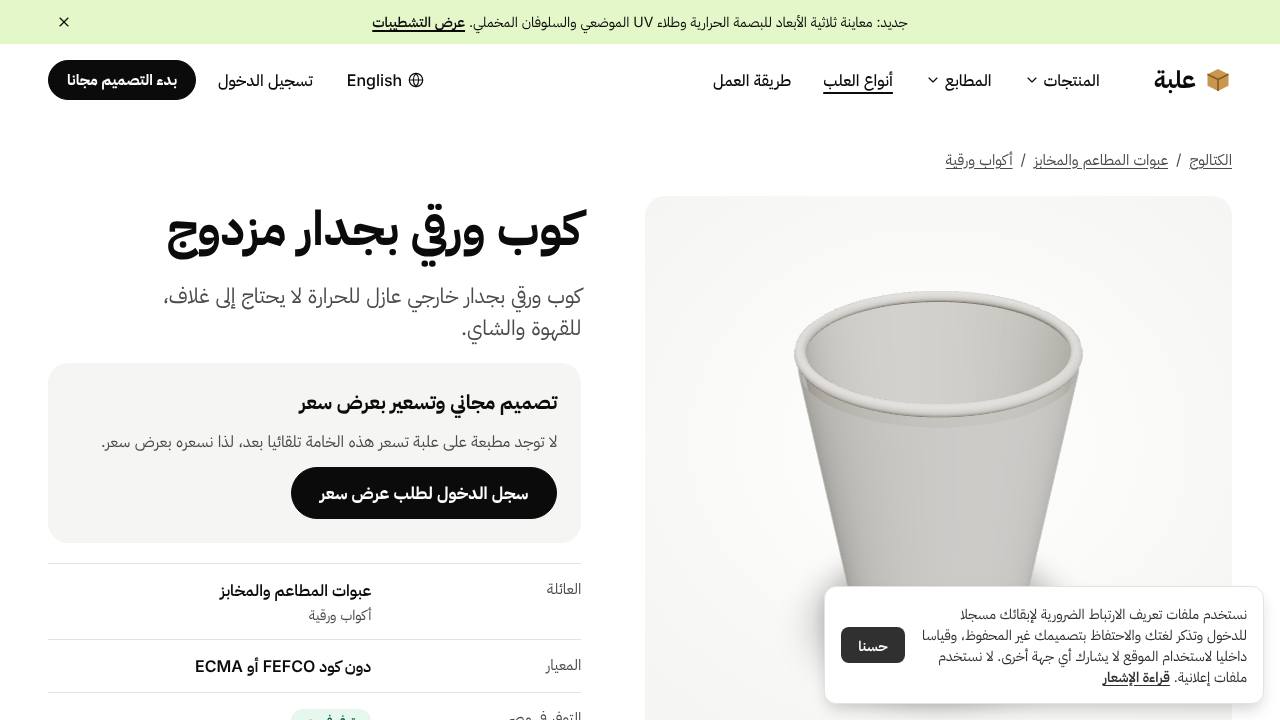
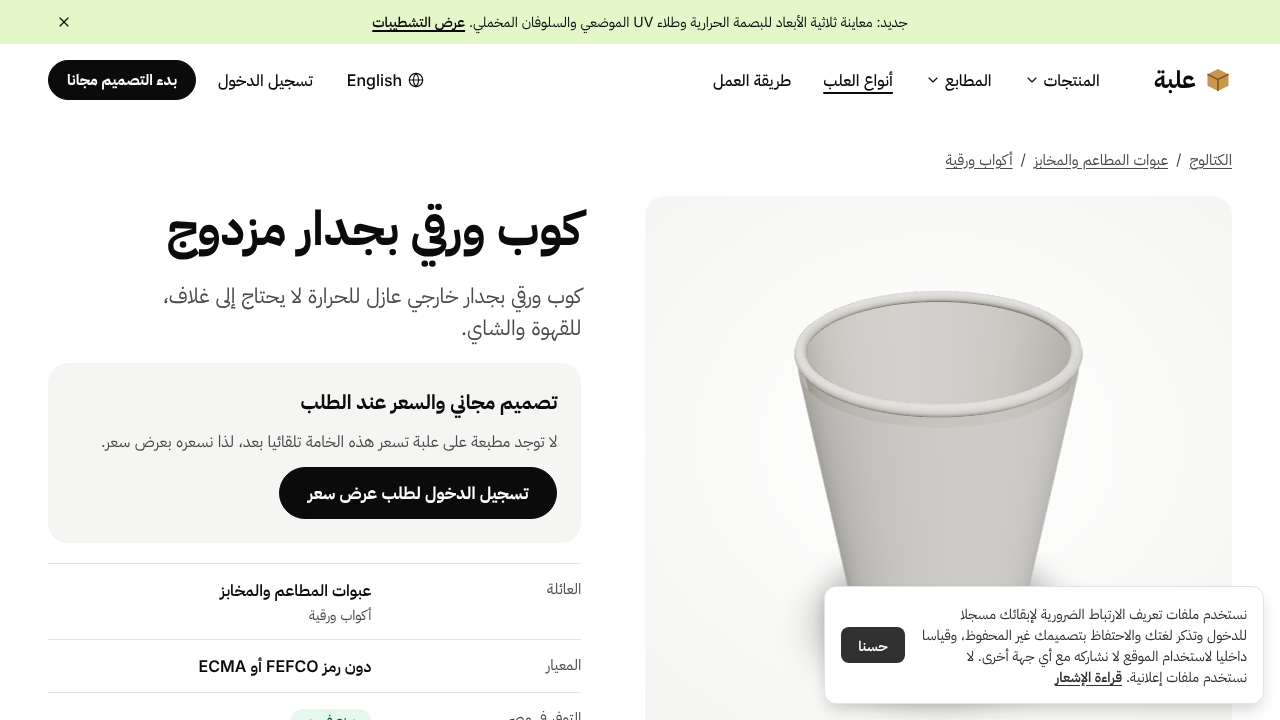
e2e: match the copy pass's terms (Request a price, Price on request, lowercase terms label)
The r5-copy merge renamed the quote labels and the sign-up consent label; the specs still looked
for the old strings. Locators now use the shipped copy (terms label matched case-insensitively).

Claude-Session: https://claude.ai/code/session_01ErLBsbrJGKcLzRPdTmLyhq

diff --git a/e2e/catalogue-order-modes.spec.ts b/e2e/catalogue-order-modes.spec.ts
@@ -41,11 +41,11 @@ test("quote-only model: no 'Order this box' in designer, export, share, checkout
   await page.goto("/en/design/aseptic-brick-carton");
   await dismissCookies(page);
   const toolbar = page.getByRole("toolbar");
-  await expect(toolbar.getByRole("button", { name: "Request a quote" })).toBeVisible({ timeout: 30_000 });
+  await expect(toolbar.getByRole("button", { name: "Request a price" })).toBeVisible({ timeout: 30_000 });
   await expect(page.getByRole("button", { name: "Order this box" })).toHaveCount(0);
   await toolbarAction(page, "Export");
   const exp = page.getByRole("dialog", { name: "Download a mockup" });
-  await expect(exp.getByRole("button", { name: "Request a quote" })).toBeVisible();
+  await expect(exp.getByRole("button", { name: "Request a price" })).toBeVisible();
   await expect(exp.getByRole("button", { name: "Order this box" })).toHaveCount(0);
   await exp.getByRole("button", { name: "Cancel" }).click();
 
@@ -56,7 +56,7 @@ test("quote-only model: no 'Order this box' in designer, export, share, checkout
   await expect(link).toHaveValue(/\/en\/s\/[\w-]+$/, { timeout: 20_000 });
   const sharePath = new URL(await link.inputValue()).pathname;
 
-  // Another buyer opens the share page: model name, "Request a quote", "Design your own" opens the same model.
+  // Another buyer opens the share page: model name, "Request a price", "Design your own" opens the same model.
   const ctx = await browser.newContext({ baseURL });
   await signInAs(ctx, baseURL!, visitor.id);
   const v = await ctx.newPage();
@@ -65,7 +65,7 @@ test("quote-only model: no 'Order this box' in designer, export, share, checkout
   await expect(v.getByText("Aseptic brick carton").first()).toBeVisible();
   await expect(v.getByRole("link", { name: "Order this box" })).toHaveCount(0);
   await expect(v.getByRole("link", { name: "Design your own" })).toHaveAttribute("href", /\/en\/design\/aseptic-brick-carton/);
-  await v.getByRole("link", { name: "Request a quote" }).click();
+  await v.getByRole("link", { name: "Request a price" }).click();
 
   // Deep link: the visitor's copy keeps the model, so checkout is a quote request, not an order.
   await expect(v).toHaveURL(/\/en\/checkout\/[\w-]+$/, { timeout: 20_000 });
@@ -90,25 +90,25 @@ test("quote-only model: no 'Order this box' in designer, export, share, checkout
   await ctx.close();
 });
 
-test("special-gluing model no printer lists: 'Request a quote' once the price says so (R6-05)", async ({ page, baseURL }, info) => {
+test("special-gluing model no printer lists: 'Request a price' once the price says so (R6-05)", async ({ page, baseURL }, info) => {
   test.skip(info.project.name !== "desktop", "one designer session is enough");
   test.setTimeout(90_000);
   const owner = track(await createUser({ name: "E2E R6-05 owner" }));
   await signInAs(page.context(), baseURL!, owner.id);
   await page.goto("/en/design/fefco-0711-auto-bottom-rsc");
   await dismissCookies(page);
-  await expect(page.getByTestId("price-badge")).toContainText(/by quote/i, { timeout: 30_000 });
-  await expect(page.getByRole("toolbar").getByRole("button", { name: "Request a quote" })).toBeVisible();
+  await expect(page.getByTestId("price-badge")).toContainText(/price on request/i, { timeout: 30_000 });
+  await expect(page.getByRole("toolbar").getByRole("button", { name: "Request a price" })).toBeVisible();
   await expect(page.getByRole("button", { name: "Order this box" })).toHaveCount(0);
   await toolbarAction(page, "Export");
   const exp = page.getByRole("dialog", { name: "Download a mockup" });
-  await expect(exp.getByRole("button", { name: "Request a quote" })).toBeVisible();
+  await expect(exp.getByRole("button", { name: "Request a price" })).toBeVisible();
   await exp.getByRole("button", { name: "Cancel" }).click();
   await toolbarAction(page, "Share");
   const link = page.getByRole("dialog", { name: "Share link" }).getByLabel("Link");
   await expect(link).toHaveValue(/\/en\/s\/[\w-]+$/, { timeout: 20_000 });
   await page.goto(new URL(await link.inputValue()).pathname);
-  await expect(page.getByRole("link", { name: "Request a quote" })).toBeVisible();
+  await expect(page.getByRole("link", { name: "Request a price" })).toBeVisible();
   await expect(page.getByRole("link", { name: "Order this box" })).toHaveCount(0);
   await expect(page.getByText(/special gluing/).first()).toBeVisible();
   await db.auditLog.deleteMany({ where: { actorId: owner.id } });

diff --git a/e2e/catalogue.spec.ts b/e2e/catalogue.spec.ts
@@ -117,8 +117,8 @@ test("model page: quote path for a format no printer prices yet", async ({ page 
   await page.goto("/ar/catalog/FS_CUP_DOUBLE");
   await dismissCookies(page);
   await expect(page.getByTestId("price-path")).toHaveAttribute("data-mode", "quote");
-  await expect(page.getByText("تصميم مجاني وتسعير بعرض سعر")).toBeVisible();
-  await expect(page.getByRole("link", { name: "سجل الدخول لطلب عرض سعر" })).toHaveAttribute("href", /login\?next=/);
+  await expect(page.getByText("تصميم مجاني والسعر عند الطلب")).toBeVisible();
+  await expect(page.getByRole("link", { name: "تسجيل الدخول لطلب عرض سعر" })).toHaveAttribute("href", /login\?next=/);
   await expect(page.getByTestId("catalogue-stage")).toHaveAttribute("data-ready", "true", { timeout: 60_000 });
   const axe = await new AxeBuilder({ page }).withTags(["wcag2a", "wcag2aa", "wcag21aa", "wcag22aa"]).include("main").analyze();
   expect(axe.violations.map((v) => `${v.id}: ${v.nodes.length}`)).toEqual([]);

diff --git a/e2e/journey.spec.ts b/e2e/journey.spec.ts
@@ -44,7 +44,7 @@ test("home → design → gate → price → checkout → pay → vendor → QC 
   await expect(gate).toBeVisible();
   const phone = (await uniquePhone("12")).local;
   await gate.getByLabel("Verification code").fill(await sendOtp(gate, phone));
-  await gate.getByLabel(/I agree to the Terms/).check();
+  await gate.getByLabel(/I agree to the terms/i).check();
   await gate.getByRole("button", { name: "Verify and continue" }).click();
   const price = page.getByRole("dialog", { name: "Instant price" });
   await expect(price.getByText("Total with VAT")).toBeVisible({ timeout: 30_000 });

diff --git a/e2e/storefront.spec.ts b/e2e/storefront.spec.ts
@@ -103,7 +103,7 @@ test("account: sign in, withdraw marketing consent, request data deletion", asyn
   await page.waitForLoadState("networkidle"); // let the form hydrate before typing
   const code = await sendOtp(page, phone);
   await page.getByLabel("Verification code").fill(code);
-  await page.getByLabel(/I agree to the Terms/).check();
+  await page.getByLabel(/I agree to the terms/i).check();
   await page.getByLabel(/Send me offers/).check();
   await page.getByRole("button", { name: "Verify and continue" }).click();
   await expect(page).toHaveURL(/\/en\/account$/, { timeout: 30_000 });

diff --git a/e2e/designer.spec.ts b/e2e/designer.spec.ts
@@ -62,7 +62,7 @@ test("design a box, sign up at the price gate, share and export", async ({ page 
   await gate.getByLabel("Verification code").fill(code);
   const marketing = gate.getByRole("checkbox", { name: /offers|marketing|WhatsApp/i });
   if (await marketing.count()) await expect(marketing.first()).not.toBeChecked();
-  await gate.getByLabel(/I agree to the Terms/).check();
+  await gate.getByLabel(/I agree to the terms/i).check();
   await gate.getByRole("button", { name: "Verify and continue" }).click();
 
   const price = page.getByRole("dialog", { name: "Instant price" });

diff --git a/e2e/checkout.spec.ts b/e2e/checkout.spec.ts
@@ -14,7 +14,7 @@ async function signIn(page: Page, lang: "en" | "ar" = "en") {
   await expect(page).toHaveURL(new RegExp(`/${lang}/login\\?next=`));
   const code = await sendOtp(page, phone);
   await page.getByLabel("Verification code").fill(code);
-  await page.getByLabel(/I agree to the Terms/).check();
+  await page.getByLabel(/I agree to the terms/i).check();
   await page.getByRole("button", { name: "Verify and continue" }).click();
   await expect(page).toHaveURL(new RegExp(`:\\d+/${lang}/orders$`));
 }

diff --git a/e2e/smoke.spec.ts b/e2e/smoke.spec.ts
@@ -21,7 +21,7 @@ test("phone + OTP sign-in (dev banner) reaches protected orders page", async ({ 
   await expect(page).toHaveURL(/\/en\/login\?next=/);
   const code = await sendOtp(page, phone);
   await page.getByLabel("Verification code").fill(code);
-  await page.getByLabel(/I agree to the Terms/).check();
+  await page.getByLabel(/I agree to the terms/i).check();
   await page.getByRole("button", { name: "Verify and continue" }).click();
   await expect(page).toHaveURL(/\/en\/orders$/);
 });
